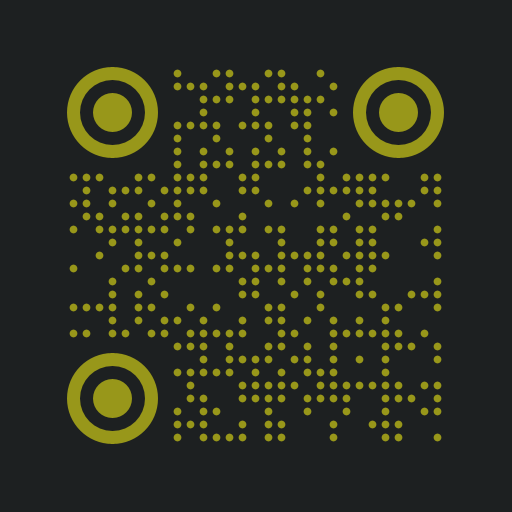
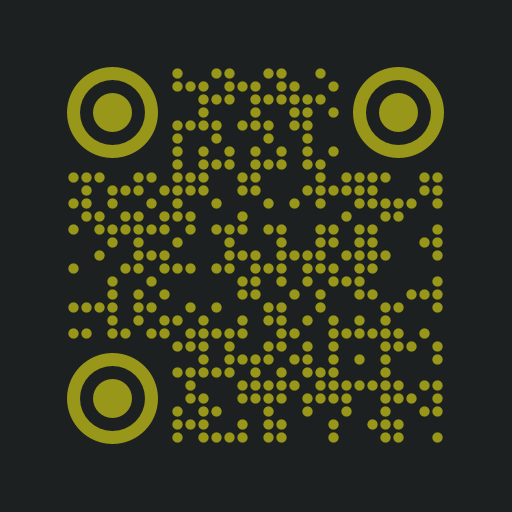
[refactor] Better separation examples in README
Removing separation in `very-rounded` example and showing it in
`separation` example.

diff --git a/README.md b/README.md
@@ -97,7 +97,7 @@ myQR.printSvg("#1d2021","#98971a",60)
 #### Making the modules rounded
 
 ```nim
-myQR.printSvg("#1d2021","#98971a",100,100,25)
+myQR.printSvg("#1d2021","#98971a",100,100)
 ```
 
 <p align="center">
@@ -105,23 +105,21 @@ myQR.printSvg("#1d2021","#98971a",100,100,25)
 </p>
 
 The first `100` sets the alignment patterns' roundness to 100%
-while the second `100` sets the module's roundness to 100% too
-and the last `25` sets the separation of the modules to 25%, so they are not
-next to each other.
+while the second `100` sets the module's roundness to 100% too.
 
 ---
 
 #### Changing the separation of the modules
 
 ```nim
-myQR.printSvg("#1d2021","#98971a",100,100,50)
+myQR.printSvg("#1d2021","#98971a",100,100,25)
 ```
 
 <p align="center">
 <img src="https://github.com/aruZeta/QRgen/blob/develop/share/img/svg-separation-example.svg" width="200px" height="200px" />
 </p>
 
-The last `50` sets the module's separation to 50%.
+The last `25` sets the module's separation to 25%.
 
 ---
 
@@ -224,7 +222,7 @@ myQR.renderImg("#1d2021","#98971a",60)
 #### Making the modules rounded
 
 ```nim
-myQR.renderImg("#1d2021","#98971a",100,100,25)
+myQR.renderImg("#1d2021","#98971a",100,100)
 ```
 
 <p align="center">
@@ -232,23 +230,21 @@ myQR.renderImg("#1d2021","#98971a",100,100,25)
 </p>
 
 The first `100` sets the alignment patterns' roundness to 100%
-while the second `100` sets the module's roundness to 100% too
-and the last `25` sets the separation of the modules to 25%, so they are not
-next to each other.
+while the second `100` sets the module's roundness to 100% too.
 
 ---
 
 #### Changing the separation of the modules
 
 ```nim
-myQR.renderImg("#1d2021","#98971a",100,100,50)
+myQR.renderImg("#1d2021","#98971a",100,100,25)
 ```
 
 <p align="center">
 <img src="https://github.com/aruZeta/QRgen/blob/develop/share/img/png-separation-example.png" width="200px" height="200px" />
 </p>
 
-The last `50` sets the module's separation to 50%.
+The last `25` sets the module's separation to 25%.
 
 ---
 
